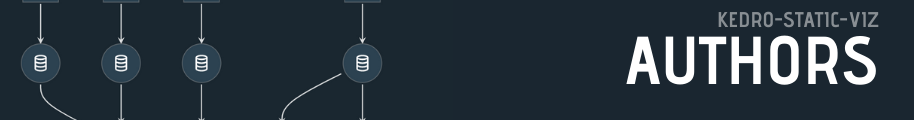
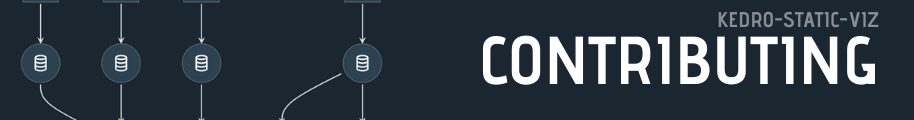
Docs update readme

Changed region(s): [[0.5208, 0.3, 0.9803, 0.725]]

diff --git a/README.md b/README.md
@@ -22,9 +22,30 @@ On every push to master in this repo [kedro-static-viz.waylonwalker.com](https:/
 kedro static-viz
 ```
 
+## !![Python Usage](./artwork/headers/4.png)
+
+The `static_viz` function is callable from inside your project directory.
+
+```python
+from kedro_static_viz import static_viz
+static_viz()
+```
+
+## !![Hooks Usage](./artwork/headers/5.png)
+
+``` python
+from kedro_static_viz.hooks import StaticViz
+
+class ProjectContext(KedroContext):
+   project_name = "kedro0160"
+   project_version = "0.16.1"
+   package_name = "kedro0160"
+   hooks = [ StaticViz() ]
+```
+
 ![](./artwork/kedro-static-viz-0-0-1.gif)
 
-## ![Installation](artwork/headers/4.png)
+## ![Installation](artwork/headers/6.png)
 
 
 ## How do I install and use Kedro-Static-Viz?
@@ -76,19 +97,19 @@ Kedro-Viz has a number of options to customise running the visualisation:
 | `--directory`            | Directory to render the static site to                                                                                                                                                 |
 | `--serve/--no-serve`     | Whether or not to serve the site after creating. Defaults to True.                                                                                                                     |
 
-## ![Contributing](./artwork/headers/5.png)
+## ![Contributing](./artwork/headers/7.png)
 
 **You're Awesome** for considering a contribution!  Contributions are welcome, please check out the [Contributing Guide](./contributing.md) for more information.  Please be a positive member of the community and embrace feedback
 
-## ![Versioning](./artwork/headers/6.png)
+## ![Versioning](./artwork/headers/8.png)
 
 We use [SemVer](https://semver.org/) for versioning. For the versions available, see the [tags on this repository](./tags).
 
 
-## ![Authors](./artwork/headers/7.png)
+## ![Authors](./artwork/headers/9.png)
 
 [![Waylon Walker](https://avatars1.githubusercontent.com/u/22648375?s=120&v=4)](https://github.com/WaylonWalker) - Waylon Walker - _Original Author_
 
-## ![License](./artwork/headers/8.png)
+## ![License](./artwork/headers/10.png)
 
 This project is licensed under the MIT License - see the LICENSE file for details
